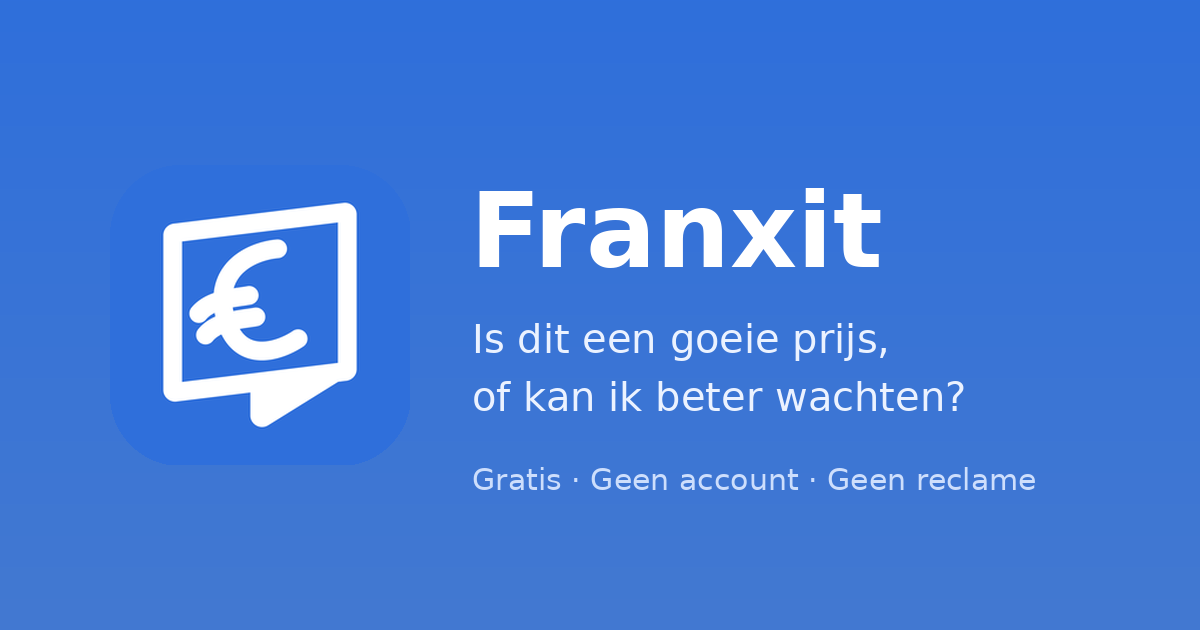
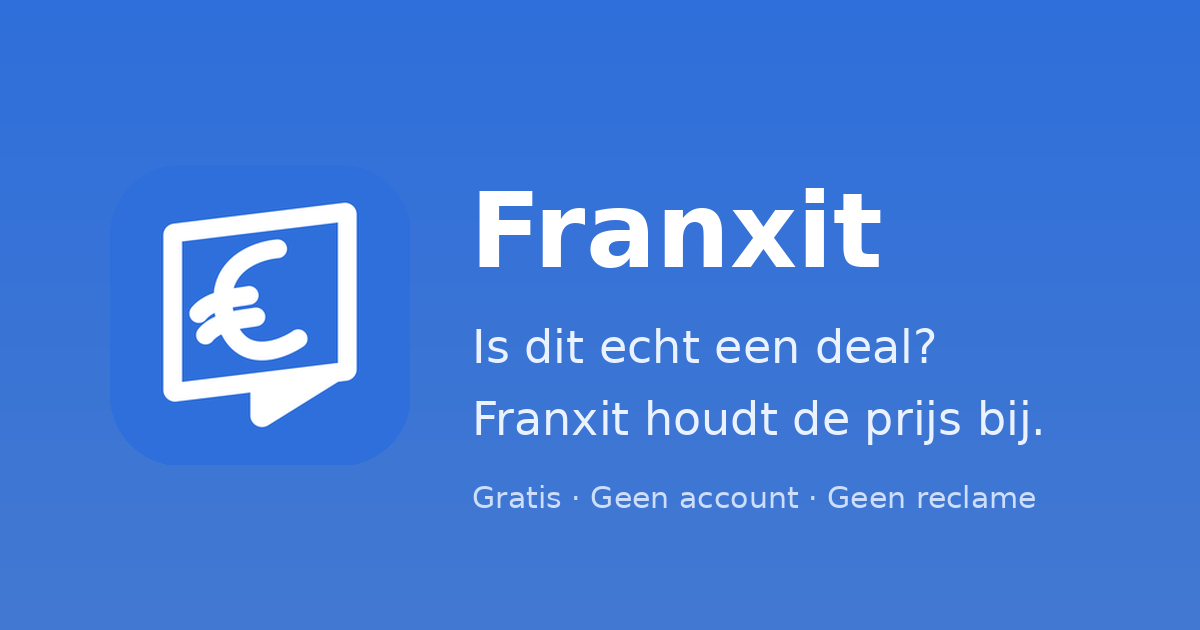
Download page: shorter sentences and headlines
Claude-Session: https://claude.ai/code/session_014yLLCYMP62sZVg1WxFivAn

Changed region(s): [[0.37, 0.6032, 0.8633, 0.6937], [0.37, 0.7238, 0.8633, 0.8143], [0.4008, 0.5127, 0.8017, 0.573]]

diff --git a/index.html b/index.html
@@ -3,13 +3,13 @@
 <head>
 <meta charset="utf-8">
 <meta name="viewport" content="width=device-width, initial-scale=1">
-<title>Franxit · Is dit een goeie prijs?</title>
-<meta name="description" content="Franxit houdt de prijs bij van wat je wil kopen en zegt je eerlijk of het nu een goed moment is. Gratis, zonder account, voor Android.">
+<title>Franxit · Is dit echt een deal?</title>
+<meta name="description" content="Franxit houdt de prijs bij van wat je wil kopen en toont of een korting echt een korting is. Gratis, zonder account, voor Android.">
 <meta name="theme-color" content="#2f6fdb">
 <meta property="og:type" content="website">
 <meta property="og:url" content="https://franxit.be/">
-<meta property="og:title" content="Franxit: is dit een goeie prijs, of kan ik beter wachten?">
-<meta property="og:description" content="Franxit houdt de prijs bij van wat je wil kopen en zegt je eerlijk of het nu een goed moment is. Gratis, zonder account, voor Android.">
+<meta property="og:title" content="Franxit: is dit echt een deal?">
+<meta property="og:description" content="Franxit houdt de prijs bij van wat je wil kopen en toont of een korting echt een korting is. Gratis, zonder account, voor Android.">
 <meta property="og:image" content="https://franxit.be/preview.png">
 <meta property="og:image:width" content="1200">
 <meta property="og:image:height" content="630">
@@ -104,15 +104,15 @@
   <section class="hero">
     <img class="logo" src="icon.png" alt="Franxit">
     <p class="brand">FRANXIT</p>
-    <h1>Is dit een goeie prijs, of kan ik beter wachten?</h1>
-    <p class="lead">Franxit houdt de prijs bij van de dingen die je wil kopen. Zo zie je of een korting wel echt een korting is, en krijg je eerlijk te horen of het nu een goed moment is.</p>
-    <a class="button" id="download" href="https://github.com/BartSchram93/franxit-download/releases/latest/download/franxit.apk">Franxit downloaden voor Android</a>
+    <h1>Is dit echt een deal?</h1>
+    <p class="lead">Franxit houdt prijzen bij. Zo zie je of een korting echt een korting is.</p>
+    <a class="button" id="download" href="https://github.com/BartSchram93/franxit-download/releases/latest/download/franxit.apk">Download voor Android</a>
     <p class="version" id="version"></p>
-    <p class="calm">Gratis. Geen account, geen reclame. Wat je volgt blijft op je gsm.</p>
+    <p class="calm">Gratis. Geen account. Geen reclame.</p>
   </section>
 
   <h2>Zo zegt Franxit het</h2>
-  <p class="sub">Bij elk product krijg je één woord. Geen grafieken om te ontcijferen.</p>
+  <p class="sub">Bij elk product krijg je één woord.</p>
   <div class="verdicts">
     <figure class="verdict">
       <div class="app-card">
@@ -120,7 +120,7 @@
         <div class="mid"><strong>Draadloze oordopjes</strong><span>MediaMarkt.be</span></div>
         <div class="right"><b>€ 199,00</b><span class="tag buy"><i style="background:var(--green)"></i>Buy now</span></div>
       </div>
-      <figcaption><strong>Buy now:</strong> de prijs zit laag, vergeleken met het voorbije jaar. Ga er maar voor.</figcaption>
+      <figcaption><strong>Buy now:</strong> een lage prijs, vergeleken met het voorbije jaar. Ga ervoor.</figcaption>
     </figure>
     <figure class="verdict">
       <div class="app-card">
@@ -128,7 +128,7 @@
         <div class="mid"><strong>Robotstofzuiger</strong><span>Coolblue.be</span></div>
         <div class="right"><b>€ 329,00</b><span class="tag"><i style="background:var(--blue)"></i>Consider</span></div>
       </div>
-      <figcaption><strong>Consider:</strong> een nette prijs, al heeft hij al lager gestaan. Aan jou.</figcaption>
+      <figcaption><strong>Consider:</strong> een nette prijs, maar hij stond al lager. Aan jou.</figcaption>
     </figure>
     <figure class="verdict">
       <div class="app-card">
@@ -144,47 +144,48 @@
         <div class="mid"><strong>Spelconsole</strong><span>Fnac.be</span></div>
         <div class="right"><b>€ 599,00</b><span class="tag"><i style="background:var(--red)"></i>Expensive</span></div>
       </div>
-      <figcaption><strong>Expensive:</strong> op dit moment duurder dan normaal. Een prijsalert zet je zo.</figcaption>
+      <figcaption><strong>Expensive:</strong> duurder dan normaal. Zet een prijsalert.</figcaption>
     </figure>
   </div>
-  <p class="note">Voorbeelden met verzonnen prijzen. Franxit kijkt naar de prijzen van het voorbije jaar, niet in een glazen bol. Soms komt er de dag nadien toch een promo.</p>
+  <p class="note">Voorbeelden met verzonnen prijzen. Franxit kijkt naar het verleden en voorspelt niets. Soms komt er morgen toch een promo.</p>
 
-  <h2>Wat het voor je doet</h2>
-  <p class="sub">Je typt een productnaam in, of je deelt de pagina van een winkelsite (zoals MediaMarkt) met Franxit. Meer moet je niet doen.</p>
+  <h2>Wat het doet</h2>
+  <p class="sub">Typ een productnaam, of deel een winkelpagina met Franxit. Meer is het niet.</p>
   <ul class="features">
-    <li class="feature"><span class="icon">📉</span><strong>Een eerlijk advies</strong><p>Franxit kijkt elke dag naar de prijs en zegt kort of het nu een goed moment is. Alleen de feiten, op een rijtje.</p></li>
-    <li class="feature"><span class="icon">🔔</span><strong>Een seintje als de prijs zakt</strong><p>Kies zelf een bedrag. Zakt de prijs daaronder, dan krijg je een melding.</p></li>
-    <li class="feature"><span class="icon">🏷</span><strong>Rekent met jouw korting</strong><p>Heb je korting bij een winkel, bijvoorbeeld via je werkgever? Vul ze in en Franxit toont wat jij echt betaalt.</p></li>
-    <li class="feature"><span class="icon">📱</span><strong>Op je startscherm</strong><p>Een widget met al je producten en hun prijs, zonder dat je de app moet openen.</p></li>
-    <li class="feature"><span class="icon">🛒</span><strong>Nog meer winkels</strong><p>Wil je in meer winkels kijken? Zet Google Shopping aan. Daarvoor heb je een gratis account bij SerpApi nodig. In de app staat stap voor stap wat je moet doen.</p></li>
+    <li class="feature"><span class="icon">📉</span><strong>Eerlijk advies</strong><p>Franxit zegt kort of het nu een goed moment is. Alleen de feiten.</p></li>
+    <li class="feature"><span class="icon">🔔</span><strong>Seintje bij prijsdaling</strong><p>Kies een bedrag. Zakt de prijs daaronder, dan krijg je een melding.</p></li>
+    <li class="feature"><span class="icon">🏷</span><strong>Jouw korting</strong><p>Korting via je werkgever? Vul ze in en zie wat jij echt betaalt.</p></li>
+    <li class="feature"><span class="icon">📱</span><strong>Op je startscherm</strong><p>Een widget met je producten en hun prijs.</p></li>
+    <li class="feature"><span class="icon">🛒</span><strong>Meer winkels</strong><p>Zet Google Shopping aan om in meer winkels te kijken. De app legt uit hoe.</p></li>
     <li class="feature"><span class="icon">🔒</span><strong>Blijft van jou</strong><p>Geen account. Wat je volgt blijft op je gsm.</p></li>
   </ul>
 
   <h2>Waarom ik dit maakte</h2>
   <div class="card">
-    <p>Ik ben Bart. Ik maakte Franxit omdat producten vaak "in korting" staan, terwijl dat niet altijd echt zo is. Zeker rond Black Friday wou ik zeker zijn dat een deal ook echt een deal is.</p>
-    <p>Van mijn ouders leerde ik altijd goed op mijn centjes te passen. Dat lukt niet altijd, maar ik doe mijn best. Een app als deze helpt mij daarbij, en ik hoop dat hij ook anderen helpt.</p>
+    <p>Ik ben Bart. Ik maakte Franxit omdat producten vaak "in korting" staan. Maar dat is niet altijd echt zo.</p>
+    <p>Rond Black Friday wou ik zeker zijn dat een deal ook echt een deal is.</p>
+    <p>Van mijn ouders leerde ik goed op mijn centjes te passen. Dat lukt niet altijd, maar ik doe mijn best. Deze app helpt mij daarbij. Ik hoop dat hij ook anderen helpt.</p>
   </div>
 
   <h2>Zo krijg je het op je gsm</h2>
-  <p class="sub">Franxit staat niet in de Play Store. Daarom stelt Android je eerst een paar vragen. Dat is normaal, en het duurt een minuutje.</p>
+  <p class="sub">Franxit staat niet in de Play Store. Daarom vraagt Android eerst toestemming. Dat is normaal.</p>
   <div class="card">
     <ol>
-      <li>Tik op de downloadknop. Zegt je browser dat het bestand schadelijk kan zijn? Dat zegt hij bij elke app van buiten de Play Store. Kies <strong>Toch downloaden</strong>.</li>
-      <li>Open het bestand <strong>franxit.apk</strong> (onderaan je scherm of in de map Downloads). Android vraagt of je apps van deze bron mag installeren. Tik op <strong>Instellingen</strong>, zet het aan voor je browser en ga terug.</li>
-      <li>Tik op <strong>Installeren</strong>. Toont Google Play Protect een waarschuwing? Kies <strong>Meer details</strong> en dan <strong>Toch installeren</strong>.</li>
+      <li>Tik op de downloadknop. Waarschuwt je browser? Kies <strong>Toch downloaden</strong>.</li>
+      <li>Open <strong>franxit.apk</strong>. Android vraagt toestemming. Tik op <strong>Instellingen</strong>, zet het aan en ga terug.</li>
+      <li>Tik op <strong>Installeren</strong>. Waarschuwt Play Protect? Kies <strong>Meer details</strong>, dan <strong>Toch installeren</strong>.</li>
     </ol>
-    <p class="small" style="margin-top:12px">Komt er een nieuwe versie, dan zegt de app het zelf. Je installeert die gewoon over de oude heen. Je producten blijven staan.</p>
+    <p class="small" style="margin-top:12px">Komt er een nieuwe versie, dan zegt de app het. Installeer ze over de oude heen. Je producten blijven staan.</p>
   </div>
 
-  <h2>Veelgestelde vragen</h2>
+  <h2>Vragen</h2>
   <details>
     <summary>Kost het iets?</summary>
-    <p>Nee. Geen abonnement en geen reclame. Alleen als je extra winkels via Google Shopping wil, maak je zelf een gratis account bij SerpApi aan.</p>
+    <p>Nee. Geen abonnement en geen reclame. Voor extra winkels via Google Shopping maak je zelf een gratis account bij SerpApi.</p>
   </details>
   <details>
     <summary>Is het veilig?</summary>
-    <p>Franxit vraagt enkel toegang tot internet en tot meldingen. Er is geen account en je producten blijven op je gsm. De waarschuwing bij het installeren komt er omdat de app niet in de Play Store staat, niet omdat er iets mis mee is.</p>
+    <p>Franxit vraagt enkel toegang tot internet en meldingen. Er is geen account en je producten blijven op je gsm. De waarschuwing bij het installeren komt er omdat de app niet in de Play Store staat.</p>
   </details>
   <details>
     <summary>Werkt het op een iPhone?</summary>
@@ -192,19 +193,19 @@
   </details>
   <details>
     <summary>Hoe komt het advies tot stand?</summary>
-    <p>Franxit vergelijkt de prijs van nu met de prijzen van het voorbije jaar: wat normaal is, wat de laagste prijs was en wat het de laatste maanden kostte. Het kijkt achteruit en voorspelt niets.</p>
+    <p>Franxit vergelijkt de prijs van nu met het voorbije jaar. Wat is normaal? Wat was de laagste prijs? Wat kostte het de laatste maanden? Het kijkt achteruit en voorspelt niets.</p>
   </details>
   <details>
     <summary>In welke winkels kijkt het?</summary>
-    <p>Franxit leest de prijzen op vergelijk.be, dat veel winkels naast elkaar zet, en op de winkelpagina's die je deelt. Met Google Shopping komen er nog winkels bij.</p>
+    <p>Op vergelijk.be, dat veel winkels naast elkaar zet, en op de winkelpagina's die je deelt. Met Google Shopping komen er nog winkels bij.</p>
   </details>
   <details>
     <summary>Hoe weet ik dat er een update is?</summary>
-    <p>De app zegt het zelf: bovenaan staat "New version available" en je krijgt een stille melding. Tik op <strong>Download</strong> en installeer de nieuwe versie over de oude heen.</p>
+    <p>De app zegt het zelf. Bovenaan staat "New version available" en je krijgt een stille melding. Tik op <strong>Download</strong> en installeer over de oude heen.</p>
   </details>
   <details>
     <summary>Wat gebeurt er met mijn gegevens?</summary>
-    <p>Je producten, prijzen en instellingen blijven op je gsm. Franxit telt alleen anoniem hoeveel toestellen de app per dag gebruiken, zonder nummer en zonder producten. <a href="privacy.html">Hier staat het volledige verhaal</a>.</p>
+    <p>Je producten en prijzen blijven op je gsm. Franxit telt enkel anoniem hoeveel toestellen de app per dag gebruiken. <a href="privacy.html">Het volledige verhaal staat hier</a>.</p>
   </details>
   <details>
     <summary>Waar komt de naam vandaan?</summary>
